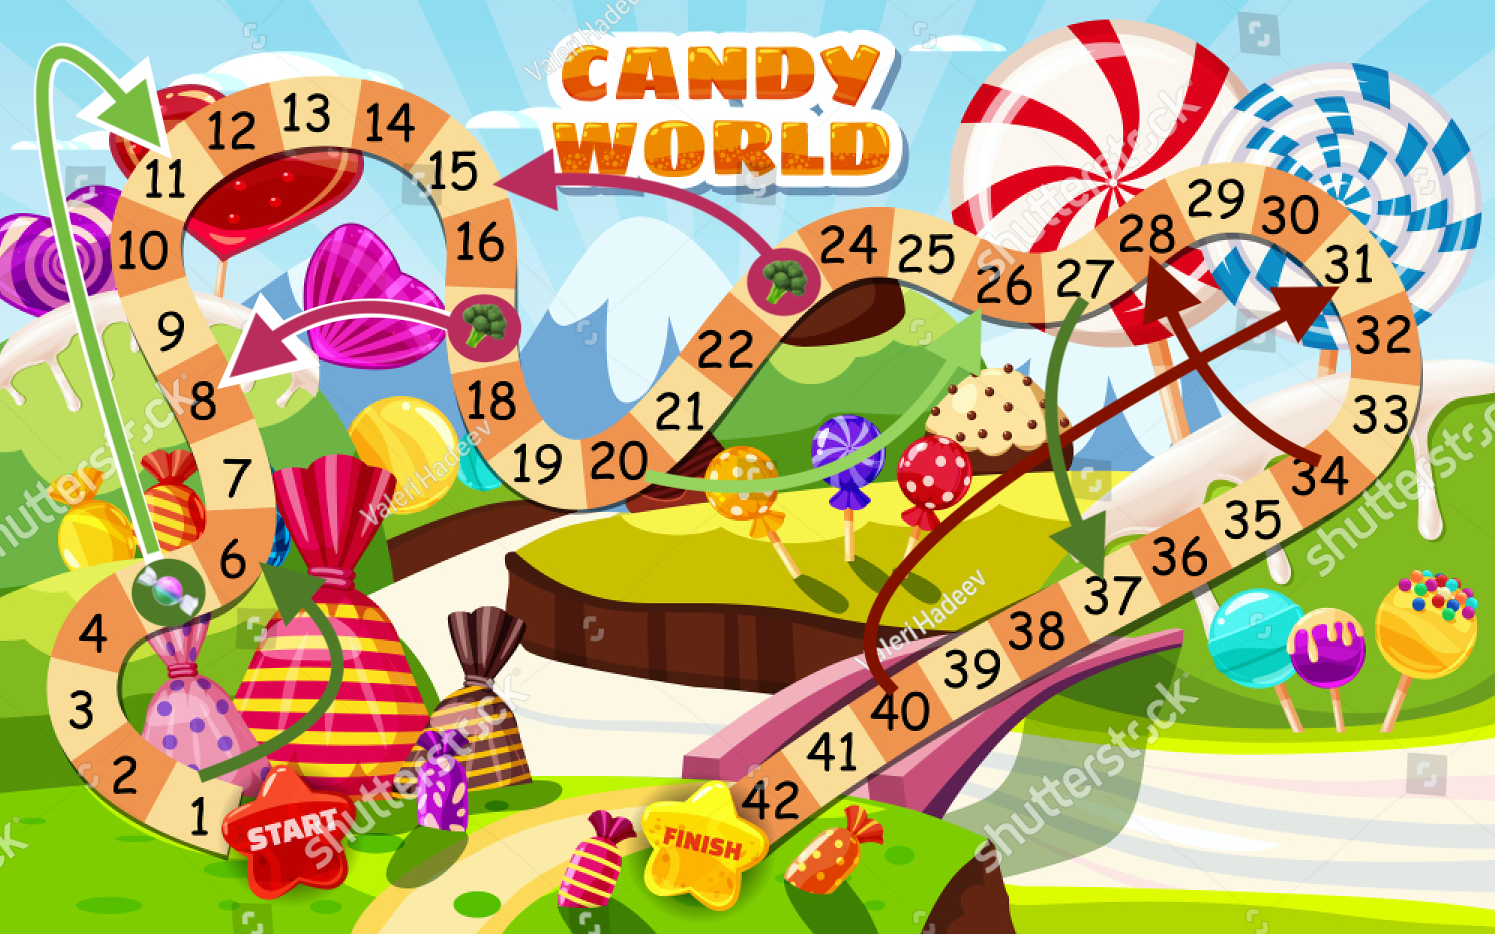
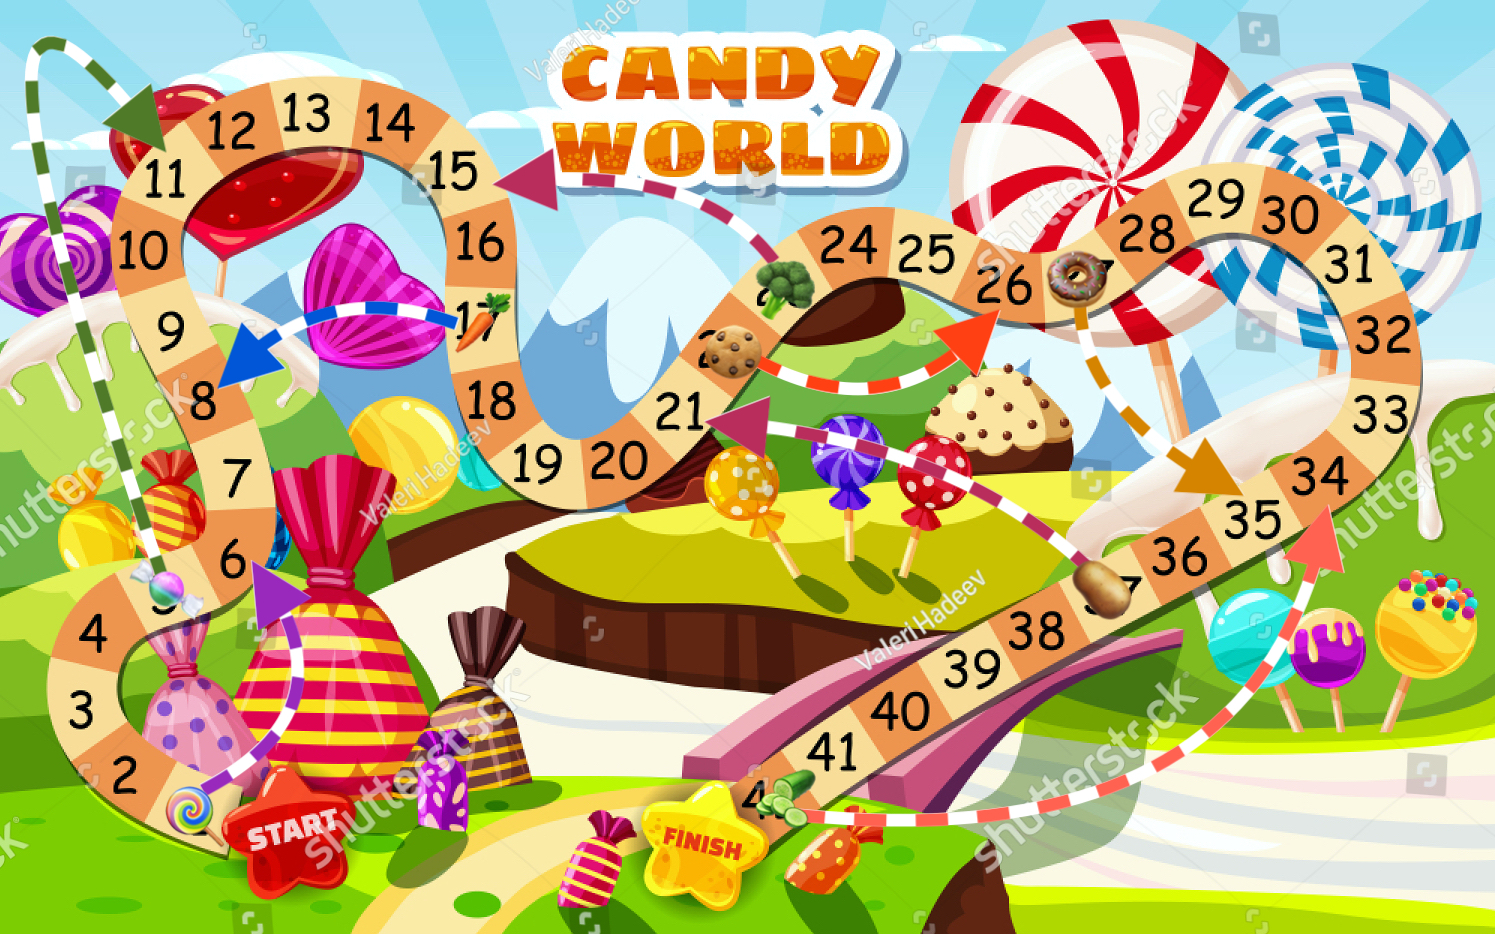
Add general candyland color theme

diff --git a/src/client/src/uplift/screens/snakes-ladders-board/boards/candyland/index.ts b/src/client/src/uplift/screens/snakes-ladders-board/boards/candyland/index.ts
@@ -11,7 +11,8 @@ export const generateBoard = (): GameBoard => {
       {
         number: 1,
         coordinates: [150, 600],
-        type: BOARD_CELL_TYPE.NORMAL,
+        type: BOARD_CELL_TYPE.LADDER,
+        linkedCellIndex: 6,
       },
       {
         number: 2,
@@ -31,7 +32,8 @@ export const generateBoard = (): GameBoard => {
       {
         number: 5,
         coordinates: [125, 440],
-        type: BOARD_CELL_TYPE.NORMAL,
+        type: BOARD_CELL_TYPE.LADDER,
+        linkedCellIndex: 11,
       },
       {
         number: 6,
@@ -91,7 +93,8 @@ export const generateBoard = (): GameBoard => {
       {
         number: 17,
         coordinates: [355, 240],
-        type: BOARD_CELL_TYPE.NORMAL,
+        type: BOARD_CELL_TYPE.SNAKE,
+        linkedCellIndex: 8,
       },
       {
         number: 18,
@@ -116,12 +119,14 @@ export const generateBoard = (): GameBoard => {
       {
         number: 22,
         coordinates: [540, 260],
-        type: BOARD_CELL_TYPE.NORMAL,
+        type: BOARD_CELL_TYPE.LADDER,
+        linkedCellIndex: 26,
       },
       {
         number: 23,
         coordinates: [580, 210],
-        type: BOARD_CELL_TYPE.NORMAL,
+        type: BOARD_CELL_TYPE.SNAKE,
+        linkedCellIndex: 15,
       },
       {
         number: 24,
@@ -141,7 +146,8 @@ export const generateBoard = (): GameBoard => {
       {
         number: 27,
         coordinates: [810, 210],
-        type: BOARD_CELL_TYPE.NORMAL,
+        type: BOARD_CELL_TYPE.LADDER,
+        linkedCellIndex: 35,
       },
       {
         number: 28,
@@ -191,7 +197,8 @@ export const generateBoard = (): GameBoard => {
       {
         number: 37,
         coordinates: [830, 450],
-        type: BOARD_CELL_TYPE.NORMAL,
+        type: BOARD_CELL_TYPE.SNAKE,
+        linkedCellIndex: 21,
       },
       {
         number: 38,
@@ -216,7 +223,8 @@ export const generateBoard = (): GameBoard => {
       {
         number: 42,
         coordinates: [575, 600],
-        type: BOARD_CELL_TYPE.NORMAL,
+        type: BOARD_CELL_TYPE.SNAKE,
+        linkedCellIndex: 34,
       },
       {
         number: 43,

diff --git a/src/client/src/uplift/components/layouts/FullPageScreenLayout.tsx b/src/client/src/uplift/components/layouts/FullPageScreenLayout.tsx
@@ -1,14 +1,17 @@
 import React, { useContext } from 'react';
 import styled from 'styled-components';
+import backgroundImage from './candy-background-01.jpg';
 import { IS_PRODUCTION } from '../../../environment';
 
-export const featureFontFamily = "'Alfa Slab One', cursive";
+export const featureFontFamily = "'Bubblegum Sans', cursive";
 
 const FullPage = styled.div`
   display: flex;
   flex-direction: column;
   height: 100vh;
-  color: #ed1b24;
+  color: #ff7682;
+  background: transparent url(${backgroundImage}) no-repeat center center;
+  background-size: cover;
 `;
 
 const Header = styled.header`
@@ -16,8 +19,8 @@ const Header = styled.header`
   display: flex;
   align-items: center;
   justify-content: center;
-  color: #1d1145;
-  background-color: red;
+  color: #ff7682;
+  background-color: ${props => props.theme.headerBackgroundColor};
   transition: background-color 800ms ease-out;
 `;
 
@@ -31,7 +34,7 @@ const Body = styled.div<{
   scrollable: boolean;
 }>`
   transition: background-color 800ms ease-out;
-  background-image: radial-gradient(#ccc, #ccc);
+  /* background-image: radial-gradient(#caa8e6, #a86fba); */
   flex: 1;
   display: flex;
   flex-direction: column;

diff --git a/src/client/src/sounds/SoundService.js b/src/client/src/sounds/SoundService.js
@@ -17,7 +17,7 @@ import puff from './puff.mp3';
 // import radiantMusicLoop from './radiant.mp4';
 import yay from './yay.wav';
 import crowdCheer from './crowd-cheer.mp3';
-// import explosion from './explosion.mp3';
+import explosion from './explosion.mp3';
 import ticking from './ticking.wav';
 // import fuse from './gasp.wav';
 import slideFallWhistle from './jungle-bird.mp3';
@@ -26,7 +26,7 @@ import moveLose from './punch.mp3';
 import intenseMusicLoop from './intense-music-loop.mp3';
 import cough from './cough.mp3';
 import slurp from './slurp.mp3';
-import death from './death.mp3';
+// import death from './death.mp3';
 import blip from './blip.mp3';
 import smashBrosMusic from './super_smash_bros_3.mp3';
 import coinJingle from './ssb4_result.mp3';
@@ -277,7 +277,7 @@ export class SoundService {
       };
 
       this._sounds[SOUND_KEYS.EXPLOSION] = {
-        sound: new Howl({ src: [death] }),
+        sound: new Howl({ src: [explosion] }),
       };
 
       this._sounds[SOUND_KEYS.TICKING] = {

diff --git a/src/client/public/index.html b/src/client/public/index.html
@@ -8,12 +8,8 @@
       name="viewport"
       content="width=device-width, initial-scale=1, maximum-scale=1"
     />
-    <link
+    <!-- <link
       href="https://fonts.googleapis.com/css?family=Bangers"
-      rel="stylesheet"
-    />
-    <link
-      href="https://fonts.googleapis.com/css?family=Changa+One"
       rel="stylesheet"
     />
     <link
@@ -34,6 +30,15 @@
     />
     <link
       href="https://fonts.googleapis.com/css2?family=Alfa+Slab+One&display=swap"
+      rel="stylesheet"
+    /> -->
+    <link
+      href="https://fonts.googleapis.com/css?family=Changa+One"
+      rel="stylesheet"
+    />
+
+    <link
+      href="https://fonts.googleapis.com/css2?family=Bubblegum+Sans&display=swap"
       rel="stylesheet"
     />
     <!--

diff --git a/src/client/src/uplift/screens/matchup-view/components/Timebomb.tsx b/src/client/src/uplift/screens/matchup-view/components/Timebomb.tsx
@@ -116,9 +116,9 @@ export const Timebomb = ({
         ticking={ticking || boomCountdown}
       >
         {/* {(ticking || exploded) && !boom && '😬'} */}
-        {boom && <Emoji>🦠</Emoji>} {/* replace boom emoji*/}
+        {boom && <Emoji>💥</Emoji>} {/* replace boom emoji*/}
         {/* {!ticking && !exploded && <BombImage src={bombImage} intensity={intensity} />} */}
-        {!boom && <Emoji>🍜</Emoji>} {/* replace timebomb*/}
+        {!boom && <Emoji>🍩</Emoji>} {/* replace timebomb*/}
       </Bomb>
     </Container>
   );

diff --git a/src/client/src/uplift/components/PrimaryButton.tsx b/src/client/src/uplift/components/PrimaryButton.tsx
@@ -13,7 +13,7 @@ const StyledButton = styled.button`
   text-decoration: none;
   text-transform: uppercase;
   color: #fff;
-  background-color: #ed1b24;
+  background-color: #d2082d;
   border: 0;
   box-shadow: inset 0 -0.6em 0 -0.35em rgba(0, 0, 0, 0.17);
   text-align: center;
@@ -21,7 +21,7 @@ const StyledButton = styled.button`
   font-size: 1rem;
   &:hover {
     box-shadow: inset 0 -0.6em 0 -0.5em rgba(0, 0, 0, 0.17);
-    background-color: #60903b;
+    background-color: #9259c2;
     transform: scale(1.05);
   }
 

diff --git a/src/client/src/uplift/screens/snakes-ladders-board/View.tsx b/src/client/src/uplift/screens/snakes-ladders-board/View.tsx
@@ -78,12 +78,7 @@ export default ({  }: RouteComponentProps) => {
   return (
     <ConfettiProvider>
       <GameBoardProvider board={board}>
-        <FullPageScreenLayout
-          title=""
-          alignTop={true}
-          scrollable={true}
-          bodyStyle={{ backgroundColor: '#7CB242', backgroundImage: 'none' }}
-        >
+        <FullPageScreenLayout title="" alignTop={true} scrollable={true}>
           {/* <GameSettingsDrawer /> */}
           <Container>
             <Board

diff --git a/src/client/src/uplift/screens/invitation-matchup/StatusIndicator.tsx b/src/client/src/uplift/screens/invitation-matchup/StatusIndicator.tsx
@@ -1,5 +1,6 @@
 import React from 'react';
 import styled, { keyframes, css } from 'styled-components';
+import { featureFontFamily } from '../../components/layouts/FullPageScreenLayout';
 
 export enum STATUS_TYPE {
   WAITING = 'waiting',
@@ -23,6 +24,7 @@ const waitingBackgroundAnimation = keyframes`
 `;
 
 const Container = styled.div<{ status: STATUS_TYPE }>`
+  font-family: ${featureFontFamily};
   border-radius: 8px;
   font-size: 1rem;
   ${props =>

diff --git a/src/client/src/uplift/screens/matchup-view/View.tsx b/src/client/src/uplift/screens/matchup-view/View.tsx
@@ -228,7 +228,7 @@ export default ({ matchupId }: MatchupViewProps) => {
                           soundService.play(SOUND_KEYS.RATTLE);
                         }}
                       >
-                        TO THE JUNGLE!
+                        TO CANDYLAND 🍭
                       </Link>
                     </LinkButton>
                   )}

diff --git a/src/client/src/uplift/screens/matchup-view/components/BonusPoints.tsx b/src/client/src/uplift/screens/matchup-view/components/BonusPoints.tsx
@@ -4,10 +4,10 @@ import { DynamicUpdatingPoints } from '../../../components/dynamic-updating-poin
 
 const Container = styled.div`
   font-size: 1.3rem;
-  background-color: #ffbf00;
+  background-color: #a96fba;
   border-radius: 8px;
   padding: 8px;
-  color: #674d00;
+  color: #8be6b4;
   text-transform: uppercase;
   text-align: center;
 `;

diff --git a/src/client/src/uplift/components/SecondaryButton.tsx b/src/client/src/uplift/components/SecondaryButton.tsx
@@ -13,7 +13,7 @@ const StyledButton = styled.button`
   text-decoration: none;
   text-transform: uppercase;
   color: #fff;
-  background-color: #23408e;
+  background-color: #f78bd1;
   border: 0;
   box-shadow: inset 0 -0.6em 0 -0.35em rgba(0, 0, 0, 0.17);
   text-align: center;

diff --git a/src/client/src/uplift/screens/matchup-view/components/PlayerWithMoveRevealTimebomb.tsx b/src/client/src/uplift/screens/matchup-view/components/PlayerWithMoveRevealTimebomb.tsx
@@ -39,8 +39,7 @@ type PlayerWithRevealProps = {
 };
 
 const blowAwayCssUp = css`
-  transform-origin: 20% 80%;
-  animation: ${fallOverAnimation} 500ms ease-in-out 1 forwards;
+  animation: ${spinAwayAnimationUp} 800ms ease-in-out 1 forwards;
 `;
 
 const Container = styled.div<{
